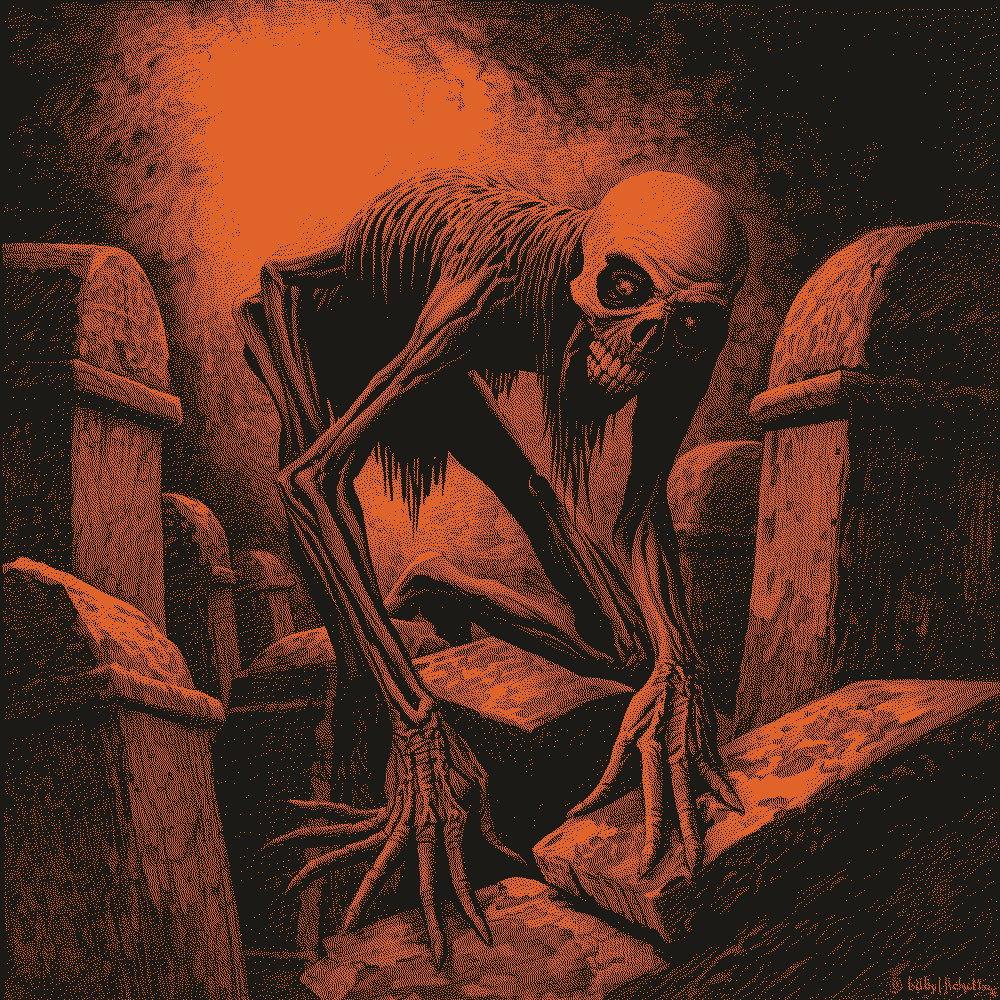
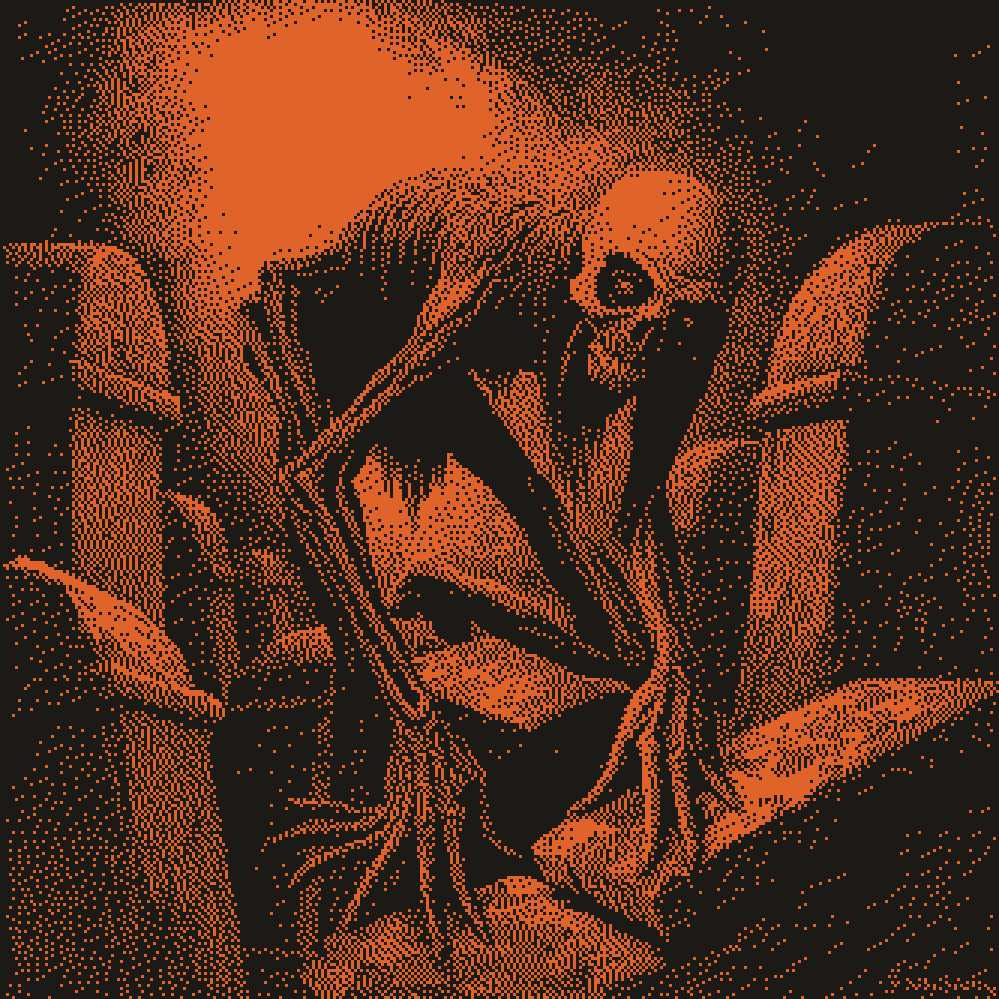
/leo-import : grain de dithering plus visible (bloc ×3 au lieu de 1:1)
Retour Patrick : le rendu était trop net une fois affiché à taille réelle.
tools/dither_batch.py dithère maintenant sur une grille réduite puis
ré-agrandit en blocs pleins (NEAREST), ajustable via --pixel-size.
Les 14 illustrations du 18/07 régénérées avec le nouveau réglage.

diff --git a/tools/dither_batch.py b/tools/dither_batch.py
@@ -49,6 +49,14 @@ ORANGE = (0xE0, 0x63, 0x2A)
 THRESHOLD = 182
 CONTRAST = 1.51
 TARGET = 1000  # côté du carré de sortie (jamais d'upscale au-delà du natif)
+# Taille de bloc du dithering (retour Patrick 18/07 : le rendu 1:1 était trop
+# net/lisse une fois affiché — le FS tournait sur bien plus de pixels que ce
+# qui est réellement visible à l'écran). On dithère sur une grille réduite
+# (TARGET // PIXEL_SIZE) puis on ré-agrandit chaque cellule en bloc plein via
+# NEAREST (pas de lissage) — même logique que le canvas basse-résolution du
+# dé 3D upscalé en pixelated. Le seuil/contraste/FS restent inchangés, seule
+# la résolution de travail change.
+PIXEL_SIZE_DEFAULT = 3
 
 # Chemin vérifié via l'API Drive le 17/07 (le dossier « APP » a été renommé
 # « PACTUM » ce jour-là — c'était la cause du premier échec de rangement).
@@ -96,16 +104,25 @@ def fetch(url: str, tmp: Path, rename: str | None = None) -> Path:
     return out
 
 
-def square_1000(im: Image.Image) -> Image.Image:
-    """Recadrage carré centré puis 1000px — downsample lissé, jamais d'upscale."""
+def square_crop(im: Image.Image) -> Image.Image:
+    """Recadrage carré centré, résolution native conservée."""
     im = im.convert("RGB")
     w, h = im.size
     side = min(w, h)
-    im = im.crop(((w - side) // 2, (h - side) // 2, (w + side) // 2, (h + side) // 2))
-    if side > TARGET:
-        # équivalent canvas drawImage + imageSmoothingEnabled (spec canonique)
-        im = im.resize((TARGET, TARGET), Image.BILINEAR)
-    return im
+    return im.crop(((w - side) // 2, (h - side) // 2, (w + side) // 2, (h + side) // 2))
+
+
+def prepare_for_dither(im: Image.Image, pixel_size: int) -> tuple[Image.Image, int]:
+    """Carré centré, downsample lissé à la résolution de TRAVAIL du dithering
+    (TARGET // pixel_size, jamais d'upscale au-delà du natif). Renvoie
+    l'image de travail et son côté — le bloc-up (NEAREST) se fait après
+    dithering, dans main(), pour ne jamais lisser la trame déjà posée."""
+    im = square_crop(im)
+    side = min(im.size[0], TARGET)
+    work = max(1, side // pixel_size)
+    if im.size[0] != work:
+        im = im.resize((work, work), Image.BILINEAR)
+    return im, work
 
 
 def dither(im: Image.Image) -> Image.Image:
@@ -156,11 +173,17 @@ def main() -> int:
     ap.add_argument("--src", default=str(Path.home() / "Downloads"), help="dossier d'entrée par défaut")
     ap.add_argument("--dest", default=str(DEST_DEFAULT), help="racine de rangement (Drive 01_En attente)")
     ap.add_argument("--dry-run", action="store_true", help="traite sans ranger dans le Drive")
+    ap.add_argument(
+        "--pixel-size",
+        type=int,
+        default=PIXEL_SIZE_DEFAULT,
+        help=f"taille de bloc du dithering, en pixels de sortie (défaut {PIXEL_SIZE_DEFAULT} — plus grand = grain plus visible)",
+    )
     args = ap.parse_args()
 
     tmp = Path(tempfile.mkdtemp(prefix="leo-import-"))
-    work = tmp / "sorties"
-    work.mkdir()
+    outdir = tmp / "sorties"
+    outdir.mkdir()
 
     # --- collecte des entrées ---
     sources: list[Path] = []
@@ -196,10 +219,13 @@ def main() -> int:
     for srcfile in sources:
         name = srcfile.stem + ".png"
         try:
-            im = square_1000(Image.open(srcfile))
-            print(f"… {srcfile.name} → {im.size[0]}×{im.size[1]}, dithering")
-            result = dither(im)
-            outfile = work / name
+            small, side = prepare_for_dither(Image.open(srcfile), args.pixel_size)
+            print(f"… {srcfile.name} → grille {side}×{side} (bloc ×{args.pixel_size}), dithering")
+            result = dither(small)
+            if args.pixel_size > 1:
+                final_side = side * args.pixel_size
+                result = result.resize((final_side, final_side), Image.NEAREST)
+            outfile = outdir / name
             result.save(outfile, optimize=True)
             done.append((name, str(outfile)))
         except Exception as e:  # noqa: BLE001
@@ -217,7 +243,7 @@ def main() -> int:
             print(f"\n✗ Destination introuvable : {dest_root}")
             print("  Le dossier Drive a probablement été renommé ou déplacé.")
             print("  Vérifier le chemin (ou passer --dest), puis relancer.")
-            print(f"  Les sorties traitées restent dans : {work}")
+            print(f"  Les sorties traitées restent dans : {outdir}")
             return 1
         for name, outpath in done:
             sub = route_for(name)

diff --git a/.claude/skills/pactum-style/references/dithering.md b/.claude/skills/pactum-style/references/dithering.md
@@ -10,7 +10,7 @@ côte à côte contre l'outil HTML sur la même image source.
 | Paramètre   | Valeur | Note |
 |-------------|--------|------|
 | Algorithme  | Floyd-Steinberg | dispatch d'erreur classique 7/16, 3/16, 5/16, 1/16 |
-| Pixel size  | 1 | |
+| Pixel size  | 3 (pipeline `/leo-import`) | voir note ci-dessous — 1 dans l'outil HTML canonique d'origine |
 | Threshold   | 182 | |
 | Contraste   | 151% | formule linéaire pivot 128, voir ci-dessous |
 | Inversion   | non | |
@@ -36,6 +36,18 @@ côte à côte contre l'outil HTML sur la même image source.
    droite 7/16, bas-gauche 3/16, bas 5/16, bas-droite 1/16.
 5. Sortie PNG bicolore, nommage `{categorie}_{sujet}.png`
    (`scene_`, `monstre_`, `objet_`).
+
+## Note — pixel size du pipeline `/leo-import` (18/07)
+
+Retour Patrick : le rendu 1:1 (grain FS sur toute la résolution de travail,
+1170px = 3× l'affichage 390px) était **trop net/lisse** une fois affiché —
+le grain n'était visible qu'en zoomant. `tools/dither_batch.py` dithère
+maintenant sur une grille réduite (`TARGET // pixel_size`, défaut
+`pixel_size=3`) puis ré-agrandit chaque cellule en bloc plein via NEAREST
+(pas de lissage) — même logique que le canvas basse-résolution du dé 3D
+upscalé en `pixelated`. Seuil/contraste/FS restent identiques à la
+référence HTML ; seule la résolution de travail change. Ajustable via
+`--pixel-size` si Patrick veut plus/moins de grain après un prochain lot.
 
 ## Validation obligatoire
 
